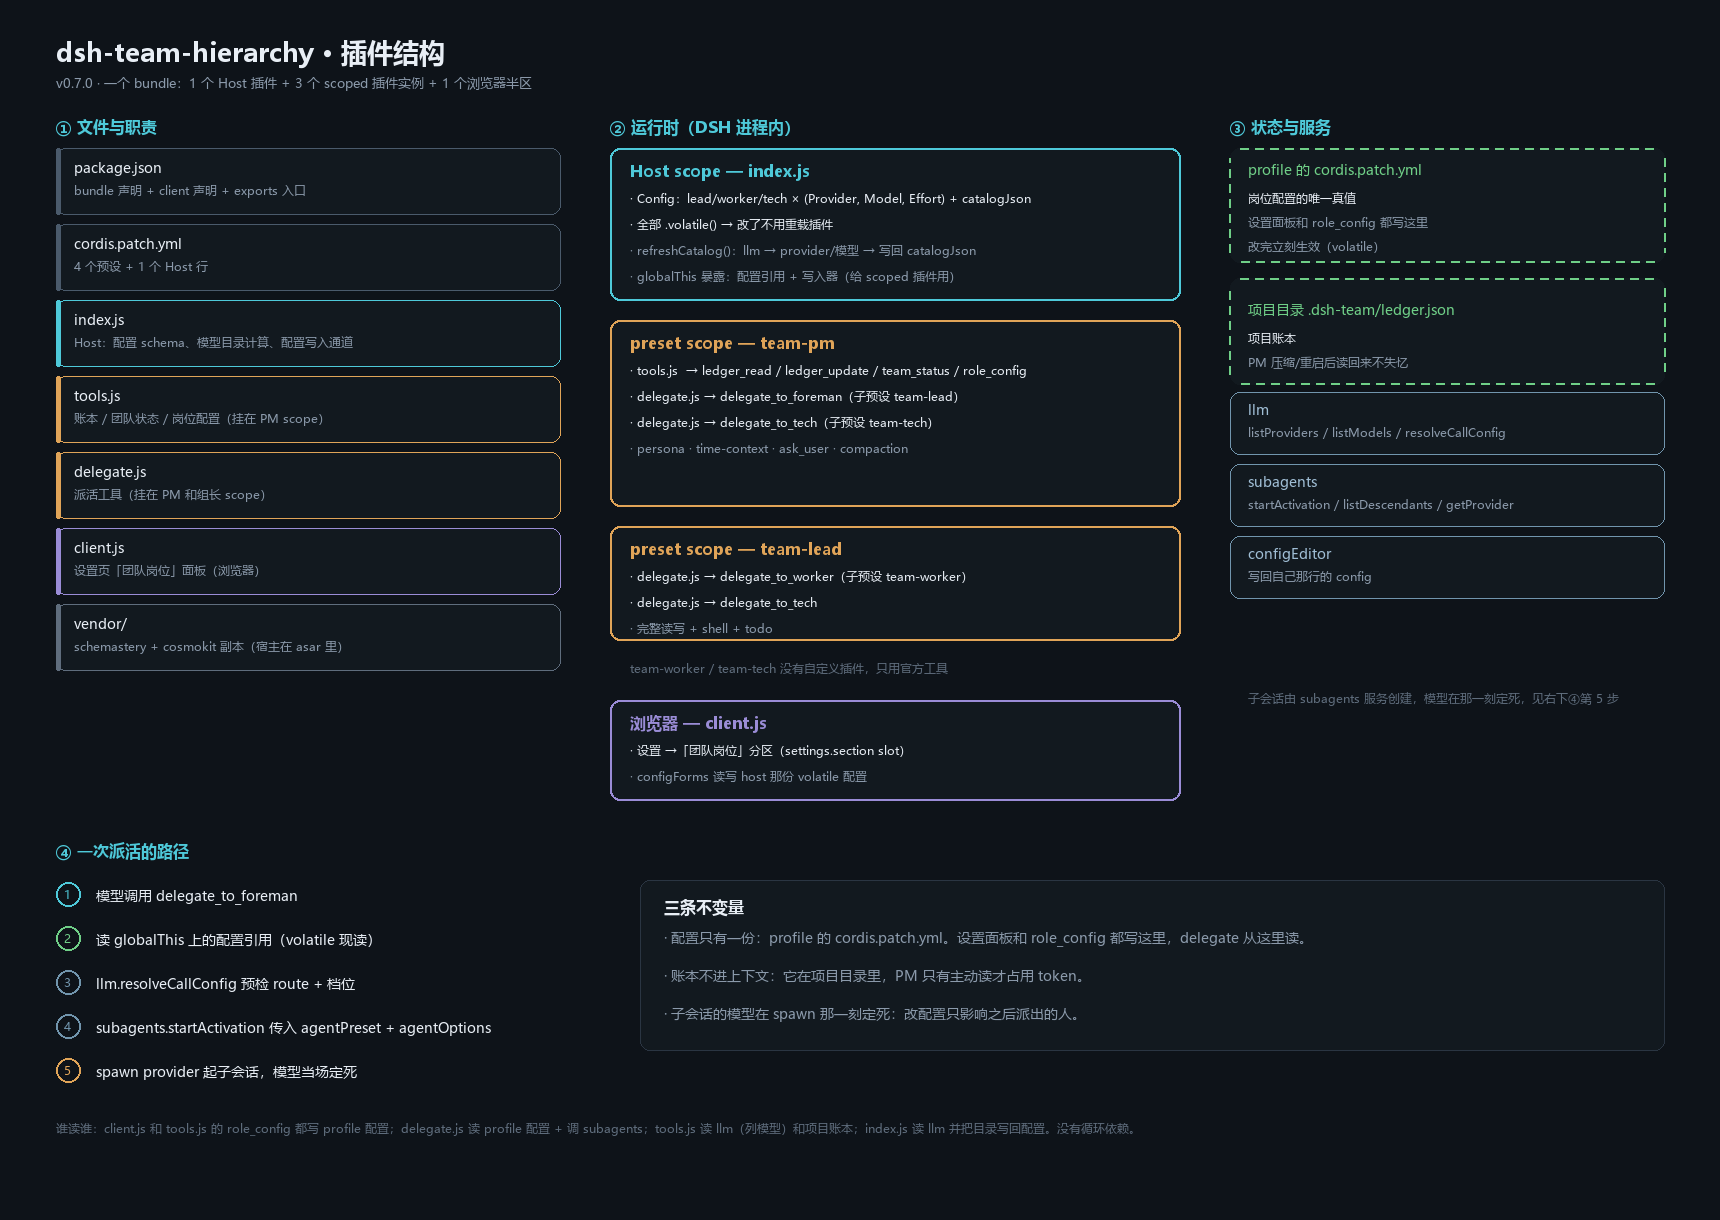
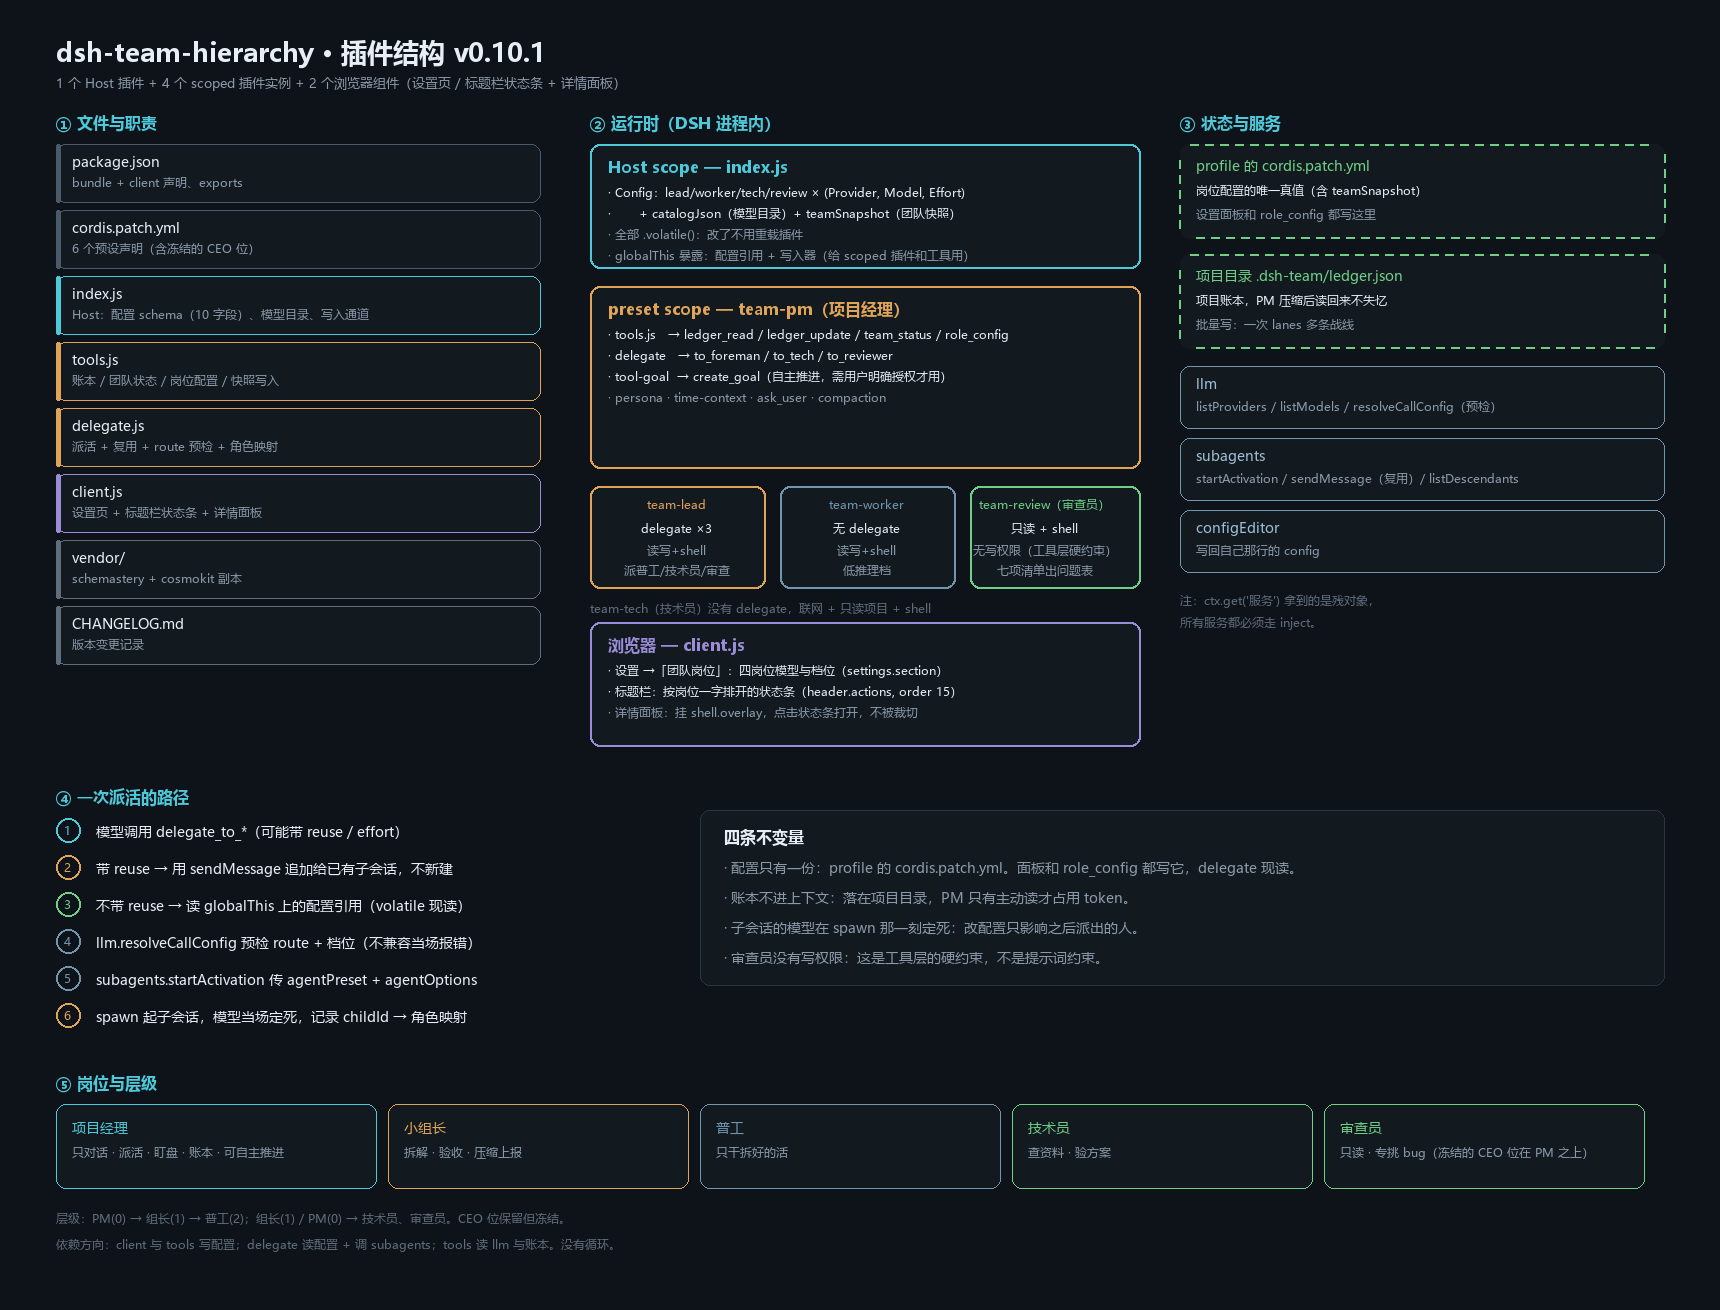
0.10.1: 更新日志 + 结构图 v0.10
- 新增 CHANGELOG.md：0.1.0 到 0.10.1 的完整变更记录，每条都写了依据
- 结构图更新到 v0.10：加入第五个岗位（审查员）、tool-goal、标题栏状态条与详情面板、复用分支
- package.json files 补 CHANGELOG.md

diff --git a/CHANGELOG.md b/CHANGELOG.md
@@ -1,0 +1,209 @@
+# 更新日志
+
+本文件记录 `dsh-team-hierarchy` 的变更。上游依据是 DeepSeek Harness 的 agent preset 与 subagent 机制。
+
+## 0.10.1 — 2026-11-16
+
+### 变更
+
+- **审查员清单从六项扩到七项**。实测发现组长在「解释层」比在「执行层」更容易出错（中位数取了第 6 位而不是中间两个的平均、`Math.Max` 的推导在数学上不成立），所以加第 7 项「数字与逻辑复算」：每个数字自己算一遍，每句推导代进去验一遍。
+- **组长加了一条落笔规则**：写数字和推导之前自己复算；算不明白就说「这个数我没验」，比写错强。
+
+### 依据
+
+三轮实测中审查员共揪出 18 条问题（首审 1 major + 5 minor + 5 nit，复审 1 major + 2 minor + 4 nit，终审通过），其中两条 major 都出在解释层。
+
+## 0.10.0 — 2026-11-16
+
+### 新增
+
+- **项目经理自主推进**。PM 预设挂 `tool-goal`，可以立 `create_goal` 目标并持续拿到轮次往下推。
+
+### 约束（写在 persona 里，不是建议）
+
+- 默认关闭。只有用户明确说「自主推进」「你不用问我」这类话才允许 `create_goal`。
+- 目标必须写成可判定完成的形式，不写「把项目做好」。
+- 必须设 `max_goal_rounds`，到了就停、先写账本再汇报。
+- 每轮结束往账本写一行。
+- 四类情况必须停下等人：删文件/改系统/装软件、要推翻已完成战线、两条战线冲突判断不出、**连续两轮没有实质进展**。
+
+### 实测
+
+连推四轮没打断用户，账本每轮落行，产出三份文档（20.5KB / 18.5KB / 6.3KB）并经过三轮审查。
+
+## 0.9.3 — 2026-11-16
+
+### 变更
+
+- 标题栏状态条改为**按岗位一字排开**：`● 小组长 2/2  ● 技术员 1/1  ○ 审查员 0/1`。没人的岗位不占位。
+- 角色映射丢失时（重启前派出的旧会话）退化成总数显示，不空白。
+
+## 0.9.2 — 2026-11-16
+
+### 变更
+
+- 详情面板去掉「项目经理上下文」一块，只聚焦下级岗位。
+- 每个下级一行显示：状态点 + 岗位标签 + 任务标题 + 跑着/空闲。
+
+### 新增
+
+- `delegate` 派活时记录 `childId → 角色` 映射，`team_status` 写快照时带上岗位。
+
+## 0.9.1 — 2026-11-16
+
+### 新增
+
+- **团队详情面板**。点击标题栏状态条打开，挂 `shell.overlay`（全局浮层），所以不会被标题栏裁切。
+
+### 修正
+
+- 状态条从「只显示不响应」改成真正的按钮。
+
+## 0.9.0 — 2026-11-16
+
+### 新增
+
+- **标题栏团队状态条**。`team_status` 算完后把快照写进 Host 配置的 `teamSnapshot` 字段，Client 读它渲染。
+- 走 Config 而不是会话投影：投影的字段名没有稳定保证，Config 是已验证的通道。
+
+## 0.8.2 — 2026-11-16
+
+### 修正
+
+- `reuse` 改用 `listDescendants` + `depth === 1` 过滤。`listChildren` 在预设 scope 里不可用。
+- `reuse` 找不到目标时的报错明确写出**要传显示标题而不是内部短名**，并列出当前可复用的完整标题。
+
+## 0.8.1 — 2026-11-16
+
+### 新增
+
+- **复用下级**。`delegate_*` 工具都有 `reuse` 参数，填一个已存在下级的显示标题，任务追加给它而不是新开。
+
+### 规则（写在 persona 里）
+
+- 同战线接着干、下级空闲 → 复用
+- 换战线 → 新开（避免上下文串味）
+- 跑超 20 分钟 / 报过错 → 换新
+- 审查员复核 → 复用同一个，它有自己的问题清单能逐条对
+
+### 实测
+
+两个会话各复用四次，上下文都接得准，验证方式是让复用者报出上一轮自己改的三处位置做自证。
+
+## 0.8.0 — 2026-11-16
+
+### 新增
+
+- **第五个岗位：审查员**（`team-review`）。旁挂在组长和 PM 下面。
+- **工具集刻意最小**：只读 fs（read / read_image）、fs-search、pwsh、jobs。**没有写权限**——这是工具层的硬约束，不是提示词约束。
+- **六项固定清单**：边界 / 错误路径 / 资源 / 跨文件影响 / 测试真的跑了 / 声称 vs 实际。每项必须给结论。
+- **输出格式锁死**：`严重度 | 文件:行号 | 问题 | 怎么改`。找不到问题必须写「六项都过了」，不许只写「没问题」。
+
+### 实测
+
+首轮就抓到组长和普工都漏掉的问题：秒位恒慢 0.44 秒（`Interval=1000` 从构造时刻硬轮询，与系统秒边界永久错位）、Timer 全程没 Stop/Dispose。还独立解析 PE 结构验证交付物与源码同源（17 字节差异全在时间戳和 MVID）。
+
+## 0.7.2 — 2026-11-14
+
+### 新增
+
+- 工作原理图（`docs/how-it-works.png`）：一次闭环的带宽设计、三个支撑机制、赚与亏的判据。
+
+## 0.7.1 — 2026-11-14
+
+### 新增
+
+- 插件结构图（`docs/plugin-structure.png`）：文件职责、运行时 scope、状态与服务、一次派活的路径。
+
+## 0.7.0 — 2026-11-14
+
+### 新增
+
+- 仓库元数据：`repository` / `homepage` / `bugs` / `license` / `author`。
+- MIT LICENSE。
+- `INSTALL.md` 重写安装章节：优先从仓库安装（可更新），保留本地目录方式。
+
+## 0.6.1 — 2026-11-14
+
+### 修正
+
+- `tools.js` 的 `workingDirectory` 从 `ctx.get` 改为注入。全项目不再有 `ctx.get`。
+
+## 0.6.0 — 2026-11-14
+
+### 变更
+
+- **`ledger_update` 强制批量**：只保留 `lanes` 数组参数，单条模式删除。实测 PM 的 `ledger_update` 调用从 5 次降到 2 次，工具调用总数从 18 降到 9。
+- `catalogJson` 排序后再序列化，避免 `listModels` 返回顺序不稳定导致每 60 秒白写一次配置。
+
+### 清理
+
+- 删除设计阶段的 `.py` 脚本和第一版结构图，只保留最终两张图并加入 `files`。
+
+## 0.5.2 — 2026-11-14
+
+### 修正
+
+- `delegate` 补上 **route 预检**（`llm.resolveCallConfig`）。之前模型不支持某档位时子会话会「启动即死」，调用方只看到「已派出」。现在当场报错并指出该去哪个设置里改。
+
+### 其它
+
+- README 按实际功能重写。
+- locale 补上技术员。
+- 删除死代码 `readRoleConfig`。
+
+## 0.5.1 — 2026-11-14
+
+### 修正
+
+- `role_config` 的「已写入」提示之前算出来没输出，PM 改完配置看不到反馈会重试。
+- `delegate` 返回文案用错变量，留空模型时显示空字符串。
+- `delegate` 的 description 还写着「由 roles.json 决定」，实际已改成配置读取。
+- **删掉 `roles.json` 回落**。它已不再写入，但 delegate 还会读——导致在设置面板里清空某个岗位后会悄悄回落到旧值，清空不生效且查不出来。
+
+## 0.5.0 — 2026-11-14
+
+### 变更
+
+- `ledger_update` 支持 `lanes` 批量、`role_config` 支持 `assignments` 批量。
+- `team_status` 结论行直说「可以收工 / 不能收工」，并把服务访问从 `ctx.get` 换成注入。
+- PM persona 加「收工前必须调 team_status」和「批量写」两条硬规矩。
+
+## 0.4.5 — 2026-11-14
+
+### 修正
+
+- 设置面板三张卡片的 `onChange` 都指向最后一个角色（`for` 循环里的 `var role` 被闭包共享）。改用 `let`。
+
+## 0.4.x — 2026-11-14
+
+### 新增
+
+- 设置页「团队岗位」面板：四岗位各自的 provider / 模型 / 推理档位。
+- provider 与模型下拉从本机 `llm` 服务实时读取；读不到时降级成输入框并提示。
+
+### 修正
+
+- Client bundle 的模块 id 必须是完整包名。
+- vendor 需要同时复制 `cosmokit.mjs`，否则 `schemastery` 静默加载失败、`Config` 变成 `undefined`、整行显示 `absent`。
+- `form` 的 API 是 `getSnapshot` / `mutate`，不是 `read` / `save`。
+- 未注入的服务访问会抛错而不是返回 `undefined`。
+
+## 0.3.0 — 2026-11-13
+
+### 新增
+
+- 项目经理 / 小组长 / 普工 / 技术员四个预设。
+- 自研 `delegate` 工具替代官方 `tool-subagent`，子会话模型与档位从配置现读。
+
+## 0.2.0 — 2026-11-13
+
+### 新增
+
+- 项目账本 `ledger_read` / `ledger_update`，落盘在项目目录 `.dsh-team/ledger.json`。
+- `team_status` 看整棵团队树。
+- 岗位配置页。
+
+## 0.1.0 — 2026-11-13
+
+首个可用版本：三个预设（项目经理 / 小组长 / 普工）与层级派活。
